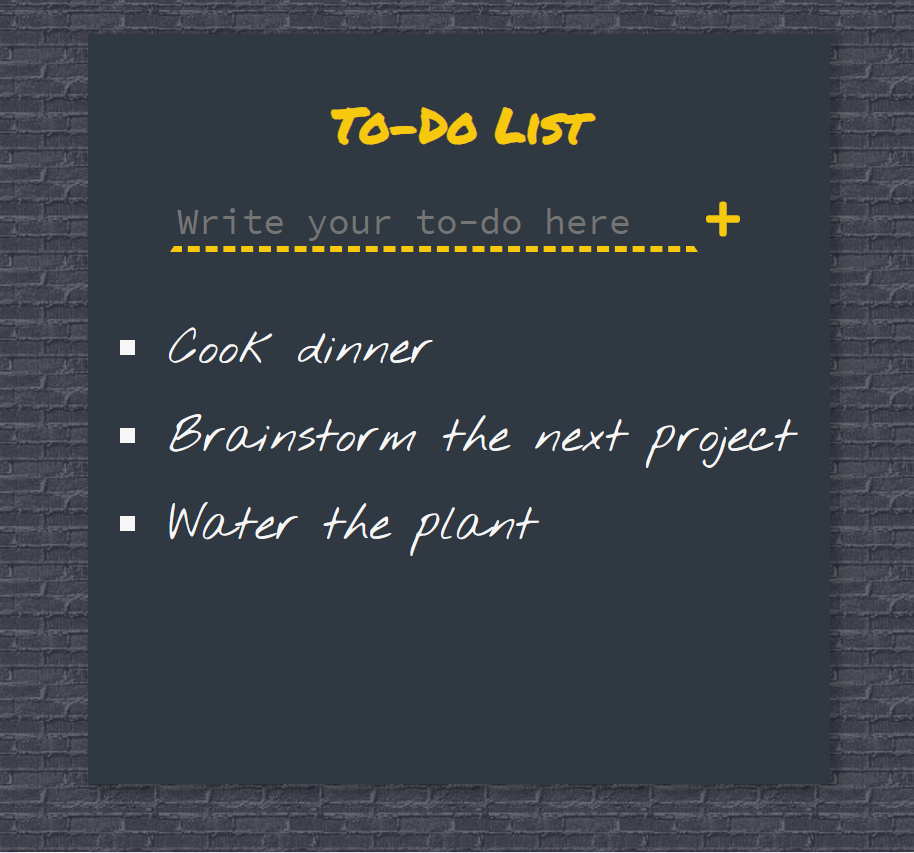
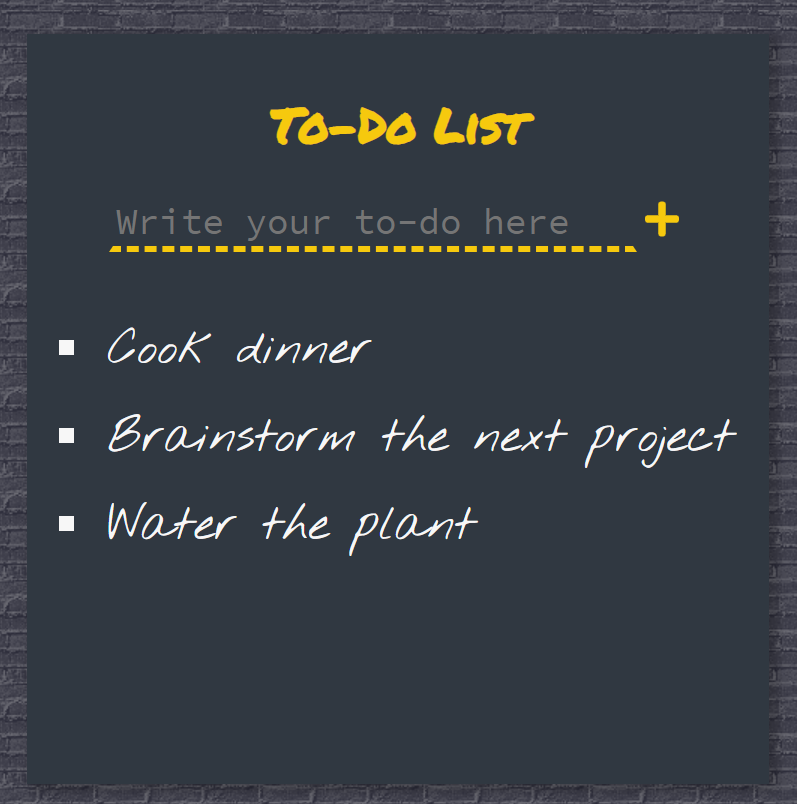
added new project

diff --git a/src/data/listOfProjects.js b/src/data/listOfProjects.js
@@ -8,11 +8,19 @@ const listOfProjects = [
     gitHubURL: "https://github.com/maya-salcedo/Wedding-Invitation-React"
   },
   {
+    nameOfProject: "To-Do App",
+    projectUrl: "https://itsmytodolist.herokuapp.com/",
+    imageOfproject: "image/projects/todolist-img.PNG",
+    description1: "This is a simple to-do app with database.",
+    description2: "React, Node, Express and PostgreSQL are among the technologies used in this project.",
+    gitHubURL: "https://github.com/maya-salcedo/ToDo-App"
+  },
+  {
     nameOfProject: "Offline Dictionary",
-    projectUrl: "https://gofile.io/d/ud3MBM",
+    projectUrl: "",
     imageOfproject: "image/projects/offlineDictionary-img.PNG",
     description1: "This is an offline English dictionary mobile application created using Kivy, an open source Python framework for rapid development of applications that make use of innovative user interfaces. Data are stored in a .json file so no internet connection is needed after downloading.",
-    description2: "The app can be installed by downloading the APK file at the above link.",
+    description2: "",
     gitHubURL: "https://github.com/maya-salcedo/offline-english-dictionary-kivy-app"
   }
 ] 
